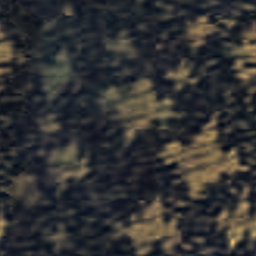
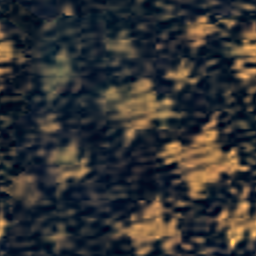
cabin777 econ w25 candidate (from w24 A 8.0 / B 7.8, matched cameras): pan list reordered (hero row tick / tick / diamond / mosaic as y_47300) + darker diamond pan, tick pans less blue; headrest cover 2 cm shorter and 0.245 wide (h/w 0.93 vs 0.70-0.77); pillow flatter, lower, resting on the pan; buc
Claude-Session: https://claude.ai/code/session_01HMqQTEKxbzwLX6D6sLZLPN

diff --git a/cabin777/src/09a_econ.js b/cabin777/src/09a_econ.js
@@ -8,7 +8,9 @@ const ECON = { back: 13 * DEG, hinge: [0.47, -0.075], sp: 19 * IN };
 // ANA mixes four fabric patterns seat by seat (y_47302: mosaic / diamond / ticks left to right; y_47306: diamond / ticks /
 // mosaic; y_47300 front row: tick / fleck / tick / fleck). econ w5 (A high): the petal fleck is the commonest (sans 13 / 14,
 // fr57325 124108) -> ~40 % fleck, 20 % each of the others [D]
-const econPan = (k, n, rot) => [SEATMAT.yFabric, SEATMAT.yFabricD, SEATMAT.yFabricC, SEATMAT.yFabric, SEATMAT.yFabricB][(k * 3 + n * 5 + (rot || 0) + 2) % 5];
+// w25 (w24a-1 / w24b-3, matched q15): hero row pans read mosaic / diamond / fleck / tick vs y_47300 tick / tick / diamond /
+// mosaic -> list reordered (same mix) [V]
+const econPan = (k, n, rot) => [SEATMAT.yFabricD, SEATMAT.yFabricB, SEATMAT.yFabric, SEATMAT.yFabricC, SEATMAT.yFabric][(k * 3 + n * 5 + (rot || 0) + 2) % 5];
 // w11 A: tick on ~half the backs (y_47300 tick / fleck / tick / fleck, y_47301 mostly tick) -> 6-cycle, tick x3 [D]
 // w17 A: the q15 hero row now reads tick / fleck / tick / fleck as in y_47300; fleck on a third of the backs (the commonest
 // in service, question 9), tick a third, mosaic and diamond a sixth each [D]
@@ -43,7 +45,9 @@ function econCrownLoft(secs, segC, crownAt) {
   for (let i = 0; i < n; i++) g.i.push(c0, c0 + 1 + ((i + 1) % n), c0 + 1 + i);
   return fixWinding(g);
 }
-const ECON_PAN = { ...SEATMAT.yFabric, c: photoBase('#44507c', 'y_tick') };
+const ECON_PAN = { ...SEATMAT.yFabric, c: photoBase('#4a5378', 'y_tick') };   // w25 (w24b-4): tick pans B/R 2.17 vs ~1.8 -> less blue
+// w25 (w24a-1 / w24b-3): the diamond pan read as a bold field of light stars head-on (L99-101 vs 74 in y_47300) -> darker
+const ECON_PAN_B = { ...SEATMAT.yFabricB, c: photoBase('#4a5482', 'y_diamond') };
 function econSeat(B, x0, lod, opts = {}) {
   const [hy, hz] = ECON.hinge;
   const F = opts.fab || SEATMAT.yFabric;
@@ -51,7 +55,7 @@ function econSeat(B, x0, lod, opts = {}) {
   // pan: the diamond seats carry the diamonds on the back only, the pan is the tick weave (y_47302 middle seat) [V]
   // w7 A + B: pans mix independently of the backs (y_47300: fleck back / tick pan, tick / diamond, fleck / mosaic) [V]
   let PF = opts.panFab || (F === SEATMAT.yFabricB ? SEATMAT.yFabric : F);
-  if (PF === SEATMAT.yFabric) PF = ECON_PAN;   // w10-w12 A: tick pans pale / grey (B/R 1.52-1.55 vs 1.74-1.90 in y_47300 / 47303)
+  if (PF === SEATMAT.yFabric) PF = ECON_PAN; else if (PF === SEATMAT.yFabricB) PF = ECON_PAN_B;   // w10-w12 A: tick pans pale / grey (B/R 1.52-1.55 vs 1.74-1.90 in y_47300 / 47303)
   // w14 gap: a deep ~5 cm fabric bullnose that tucks under to a narrower base (y_47302), set in a grey tray 5 cm behind
   // the pan front (the wide white tray showed as a 1.5-2 cm light lip under every pan) [D]
   const ps = cushionSecs(0.43, 0.47, 0.095, -0.05, { edge: 0.05, r: 0.05, crown: 0.01 });
@@ -111,17 +115,19 @@ function econSeat(B, x0, lod, opts = {}) {
   // w20 (gap19): bow cut 4 -> ~1.5 mm (the bulge mirrored the ceiling as a crinkle head-on); w20 B: ~2.5 mm (flat, it mirrored as one broad band)
   // w10 A + B: the flap hangs ~3 cm below the pad (y_47306 / sans 13: 24-29 % of the pad height), its foot tipped a
   // little forward, and rolls round the pad top in a soft radius (was a hard bevel)
-  loftAt(B, [SEC(0.575, 0.255, 0.005, -0.12, 0.002), SEC(0.61, 0.256, 0.005, -0.111, 0.002), SEC(0.655, 0.257, 0.005, -0.1025, 0.002), SEC(0.705, 0.258, 0.005, -0.103, 0.002), SEC(0.755, 0.257, 0.005, -0.1025, 0.002), SEC(0.791, 0.255, 0.005, -0.0985, 0.002)], BH, SEATMAT.yCover, lod ? 1 : 2);
-  loftAt(B, [SEC(0.789, 0.255, 0.006, -0.0985, 0.003), SEC(0.8, 0.255, 0.012, -0.094, 0.005), SEC(0.807, 0.255, 0.02, -0.086, 0.007), SEC(0.81, 0.255, 0.028, -0.073, 0.008), SEC(0.807, 0.255, 0.02, -0.06, 0.006)], BH, SEATMAT.yCover, lod ? 1 : 3);
+  loftAt(B, [SEC(0.595, 0.245, 0.005, -0.1149, 0.002), SEC(0.625, 0.246, 0.005, -0.1078, 0.002), SEC(0.665, 0.247, 0.005, -0.1022, 0.002), SEC(0.71, 0.248, 0.005, -0.103, 0.002), SEC(0.755, 0.247, 0.005, -0.1025, 0.002), SEC(0.791, 0.245, 0.005, -0.0985, 0.002)], BH, SEATMAT.yCover, lod ? 1 : 2);
+  // w25 (w24b-1, matched q15): head-on h / w 0.92-0.94 vs 0.70-0.77 in y_47300, hang ~4 cm vs 2-3 cm (b_ss_13) -> the plate
+  // starts 2 cm higher and is 0.245 wide; hem, foot, stitch and mark move up with it [D]
+  loftAt(B, [SEC(0.789, 0.245, 0.006, -0.0985, 0.003), SEC(0.8, 0.245, 0.012, -0.094, 0.005), SEC(0.807, 0.245, 0.02, -0.086, 0.007), SEC(0.81, 0.245, 0.028, -0.073, 0.008), SEC(0.807, 0.245, 0.02, -0.06, 0.006)], BH, SEATMAT.yCover, lod ? 1 : 3);
   if (lod) return;
   // small ANA mark in the flap's lower corner (viewer's right from the front, y_47306); w5 B: a thin grey logotype, not a sticker
   // w19 A: the hem, stitch and mark were quads 6-9 mm behind the plate (its foot tips forward since w10) and never showed;
   // now thin bands lofted over the plate, following its slope (plate centre z -0.12 at y 0.575 -> -0.111 at 0.61)
   const cz = (y) => -0.12 + (y - 0.575) / 0.035 * 0.009;
-  loftAt(B, [SEC(0.577, 0.253, 0.0064, cz(0.577), 0.002), SEC(0.596, 0.254, 0.0064, cz(0.596), 0.002)], BH, { c: '#2a3049', r: 0.6 }, 1);   // w22 A + B: a light band read as a screen chin head-on -> dark, the lift from the rolled foot only; w21 A + B: hem 1.15x the face vs 1.55-1.6 in y_47306 -> lighter, with a rolled foot; w20 A: dark (a light hem + stitch read as a screen chin head-on); w9 A: stitched hem band ~10 % of the cover height (y_47306)
-  B.add(gTube([[-0.122, 0, 0], [0.122, 0, 0]], 0.0045, 8), M4.mul(BH, M4.trs(0, 0.577, cz(0.577) + 0.001)), { c: '#4a5478', r: 0.38 });   // w22 B: inside the plate edge, 1 mm back (a <= 2 px lip head-on)   // rolled foot catching the light (y_47306)
-  loftAt(B, [SEC(0.5965, 0.24, 0.0072, cz(0.5965), 0.001), SEC(0.5977, 0.24, 0.0072, cz(0.5977), 0.001)], BH, { c: '#3e4562', r: 0.6 }, 1);   // stitch line, light thread (b_ss_14)
-  loftAt(B, [SEC(0.5985, 0.01, 0.0068, cz(0.5985), 0.0005, -0.105), SEC(0.6025, 0.01, 0.0068, cz(0.6025), 0.0005, -0.105)], BH, { c: '#3a4058', r: 0.5 }, 1);   // small ANA mark, viewer's right (y_47306)
+  loftAt(B, [SEC(0.597, 0.243, 0.0064, cz(0.597), 0.002), SEC(0.616, 0.244, 0.0064, cz(0.616), 0.002)], BH, { c: '#2a3049', r: 0.6 }, 1);   // w22 A + B: a light band read as a screen chin head-on -> dark, the lift from the rolled foot only; w21 A + B: hem 1.15x the face vs 1.55-1.6 in y_47306 -> lighter, with a rolled foot; w20 A: dark (a light hem + stitch read as a screen chin head-on); w9 A: stitched hem band ~10 % of the cover height (y_47306)
+  B.add(gTube([[-0.117, 0, 0], [0.117, 0, 0]], 0.0045, 8), M4.mul(BH, M4.trs(0, 0.597, cz(0.597) + 0.001)), { c: '#4a5478', r: 0.38 });   // w22 B: inside the plate edge, 1 mm back (a <= 2 px lip head-on)   // rolled foot catching the light (y_47306)
+  loftAt(B, [SEC(0.6165, 0.23, 0.0072, cz(0.6165), 0.001), SEC(0.6177, 0.23, 0.0072, cz(0.6177), 0.001)], BH, { c: '#3e4562', r: 0.6 }, 1);   // stitch line, light thread (b_ss_14)
+  loftAt(B, [SEC(0.6185, 0.01, 0.0068, cz(0.6185), 0.0005, -0.1), SEC(0.6225, 0.01, 0.0068, cz(0.6225), 0.0005, -0.1)], BH, { c: '#3a4058', r: 0.5 }, 1);   // small ANA mark, viewer's right (y_47306)
   // w11 B: contact darkening where the back fabric tucks into the shell sides (y_47306 dark crease) and along the strip
   for (const sx of [-1, 1]) loftAt(B, [SEC(0.05, 0.014, 0.003, -0.048, 0.001, sx * 0.199), SEC(0.55, 0.014, 0.003, -0.043, 0.001, sx * 0.203), SEC(0.80, 0.014, 0.003, -0.032, 0.001, sx * 0.2)], BH, { c: '#283052', r: 0.95 }, 1);   // w12 A + B: soft crease, not a drawn line
   // w9 A: a ~0.12 m centre strip in a contrasting weave runs from the pad top to the back top (headrest track cover,
@@ -138,19 +144,21 @@ function econSeat(B, x0, lod, opts = {}) {
       const X = sx * (1 + 0.35 * sz * sz) * (0.92 + 0.08 * l), Z = sz * (1 + 0.35 * sx * sx) * (0.92 + 0.08 * l);   // w10 gap: smooth squircle (|t|^0.45 creased the middle)
       // w6: wider (0.39 = 0.8 of the pan, y_47300 0.81 / sans 14 0.83), bow-tie outline with pinched corners
       const pull = 1 + 0.15 * Math.abs(X * Z);                                  // w9 A: corners pulled out (y_47300)
-      g.p[k] = 0.165 * X * (1 - 0.06 * (1 - Z * Z)) * pull; g.p[k + 2] = 0.135 * Z * (1 - 0.1 * (1 - X * X) - (Z > 0 ? 0.04 * (1 - X * X) : 0)) * pull;   // w14 gap: concave top edge   // w10 B: waist eased (read as a bone)
+      g.p[k] = 0.165 * X * (1 - 0.06 * (1 - Z * Z)) * pull; g.p[k + 2] = 0.11 * Z * (1 - 0.1 * (1 - X * X) - (Z > 0 ? 0.04 * (1 - X * X) : 0)) * pull;   // w14 gap: concave top edge   // w10 B: waist eased (read as a bone)
       g.p[k + 1] = sy * (0.006 + 0.046 * Math.pow(Math.max(0, 1 - Math.pow(l, 3)), 0.6));   // thins to the seamed rim; w14 gap: ~10 cm full (p90/p10 1.3 vs 2.2-2.8 in y_47300 read as a board)
     }
     computeNormals(g);
     // w20 (gap19): 0.33 x 0.27 (0.77 of the back, y_47300 matched view; 0.93 read as one dark strip), 4 cm higher and 4 deg
     // more upright so its foot just meets the pan instead of sinking into the crease [D]
-    B.add(g, M4.mul(BH, M4.trs(0, 0.19, -0.115, 0, -80 * DEG)), SEATMAT.yPillow);
+    // w25 (w24b-2 / w24a-5, matched q15): height 0.64 of the back width vs 0.46, ~4 cm too high -> half-height 0.11, 3.5 cm
+    // lower and tipped back 6 deg so it rests on the pan (y_47300) [D]
+    B.add(g, M4.mul(BH, M4.trs(0, 0.155, -0.112, 0, -74 * DEG)), SEATMAT.yPillow);
     // w19 A + B: a ~4 mm piped seam round the rim (y_47300 pillows), the same outline law at l = 1 [D]
     const rim = []; for (let i = 0; i <= 48; i++) {
       const t = i / 48 * 2 * Math.PI, sx = Math.cos(t), sz = Math.sin(t), X = sx * (1 + 0.35 * sz * sz), Z = sz * (1 + 0.35 * sx * sx), pull = 1 + 0.15 * Math.abs(X * Z);
-      rim.push([0.165 * X * (1 - 0.06 * (1 - Z * Z)) * pull, 0, 0.135 * Z * (1 - 0.1 * (1 - X * X) - (Z > 0 ? 0.04 * (1 - X * X) : 0)) * pull]);
+      rim.push([0.165 * X * (1 - 0.06 * (1 - Z * Z)) * pull, 0, 0.11 * Z * (1 - 0.1 * (1 - X * X) - (Z > 0 ? 0.04 * (1 - X * X) : 0)) * pull]);
     }
-    B.add(gTube(rim, 0.0035, 6, false), M4.mul(BH, M4.trs(0, 0.19, -0.115, 0, -80 * DEG)), { ...SEATMAT.yPillow, c: '#343e5c' });   // w20 A + B: pillow-coloured piping (a darker ring read as an outline)
+    B.add(gTube(rim, 0.0035, 6, false), M4.mul(BH, M4.trs(0, 0.155, -0.112, 0, -74 * DEG)), { ...SEATMAT.yPillow, c: '#343e5c' });   // w20 A + B: pillow-coloured piping (a darker ring read as an outline)
   }
   // life-vest pouch: dark saucer-shaped holder under the pan front with a red pull strap hanging from its rim (y_47302:
   // ~0.15-0.18 m discs under each seat) [D]
@@ -251,7 +259,7 @@ function econSeat(B, x0, lod, opts = {}) {
   // belt: silver tongue one side, light-grey plastic buckle cover the other (y_47303); w5 A: the webbing drapes across the
   // pan from the side creases and the latch sits at mid-pan (y_47302 / 47301 / 47303) [V]
   for (const s of [-1, 1]) {
-    B.add(s < 0 ? gRBox(0.05, 0.012, 0.035, 0.005, 1) : gRBox(0.05, 0.014, 0.04, 0.006, 1), M4.trs(x0 + 0.03 * s, 0.478, -0.31), s < 0 ? SEATMAT.buckle : { c: '#cfd2d6', r: 0.4 });
+    B.add(s < 0 ? gRBox(0.05, 0.012, 0.035, 0.005, 1) : gRBox(0.05, 0.014, 0.04, 0.006, 1), M4.trs(x0 + 0.03 * s, 0.478, -0.31), s < 0 ? SEATMAT.buckle : { c: '#9da2a9', r: 0.4 });   // w25 (w24b-5): the light covers dominated the pans head-on
     B.add(gBox(0.045, 0.004, 0.25), M4.trs(x0 + 0.115 * s, 0.474, -0.195, s * 38 * DEG), s < 0 ? SEATMAT.yBelt : { ...SEATMAT.yBelt, c: '#262c48' });   // w10 B: teal tongue strap, navy buckle strap (y_47303)
   }
   // pan-front stiffener in the light-grey structure colour (y_47300 / 47302: fabric pan fronts over light-grey structure,
@@ -343,13 +351,13 @@ function econUnitFar(n, rot = 0) {
   for (let k = 0; k < n; k++) {
     const x0 = (k - (n - 1) / 2) * sp;
     const f = econFab(k, n, rot);
-    B.add(gRBox(0.43, 0.10, 0.47, 0.05, 1), M4.trs(x0, 0.41, -0.28, 0, 3 * DEG), econPan(k, n, rot) === SEATMAT.yFabric ? ECON_PAN : econPan(k, n, rot));
+    B.add(gRBox(0.43, 0.10, 0.47, 0.05, 1), M4.trs(x0, 0.41, -0.28, 0, 3 * DEG), econPan(k, n, rot) === SEATMAT.yFabric ? ECON_PAN : econPan(k, n, rot) === SEATMAT.yFabricB ? ECON_PAN_B : econPan(k, n, rot));
     const BH = M4.trs(x0, ECON.hinge[0], ECON.hinge[1], 0, ECON.back);
     B.add(gRBox(0.42, 0.86, 0.08, 0.035, 1), M4.mul(BH, M4.trs(0, 0.43, -0.005)), f);   // same mix as econUnit
     B.add(gRBox(0.446, 0.62, 0.045, 0.015, 1), M4.mul(BH, M4.trs(0, 0.25, 0.058)), SEATMAT.yShell);
     B.add(gRBox(0.40, 0.37, 0.12, 0.015, 1), M4.mul(BH, M4.trs(0, 0.665, 0.062)), SEATMAT.yShell);    // screen hood under the back top (w5; w6 0.40, tight corners; w14 gap: top 0.85, its white cap showed on every far back)
     B.add(gRBox(0.39, 0.2, 0.11, 0.04, 1), M4.mul(BH, M4.trs(0, 0.70, -0.058)), f === SEATMAT.yFabricB ? SEATMAT.yFabricC : f === SEATMAT.yFabricC ? SEATMAT.yFabricB : f === SEATMAT.yFabricD ? SEATMAT.yFabric : SEATMAT.yHead);
-    B.add(gBox(0.255, 0.235, 0.01), M4.mul(BH, M4.trs(0, 0.6825, -0.11)), SEATMAT.yCover);
+    B.add(gBox(0.245, 0.215, 0.01), M4.mul(BH, M4.trs(0, 0.6925, -0.108)), SEATMAT.yCover);
     B.add(gQuad(0.316, 0.205), M4.mul(BH, M4.trs(0, 0.7275, 0.1245)), SEATMAT.bezel);
     B.add(gQuad(0.294, 0.166), M4.mul(BH, M4.trs(0, 0.7275, 0.1265)), SEATMAT.screen, atlasUV('screen'));
   }

diff --git a/cabin777/src/09_seats.js b/cabin777/src/09_seats.js
@@ -34,9 +34,9 @@ const SEATMAT = {
   yTray: { c: '#cfd2d6', r: 0.4, l: LAYER.plastic },
   yBelt: { c: '#25466a', r: 0.9, l: LAYER.fabric },        // y_47303 #325495 / #456198 (w5 B: #3a64a6 rendered sky-cyan; w6 B: #2e4c86 rendered #588ed0 vs y_47303 #38578c; w7 A: G/B 0.47 vs 0.61 -> teal lean)
   yPillow: { c: '#3d4763', r: 0.9, l: LAYER.fabric },      // y_47300 (44,53,88); econ w2: #2e3860 rendered #151b3e vs photo #30395f; w6 B: #4d5579 q15 L50 59 vs 44
-  arm: { c: '#c4c8cd', r: 0.45, l: LAYER.plastic },       // econ QA w1: light grey, y_47303 #afb2bc / y_47302 #9fa6ab
-  armPad: { c: '#b6bac0', r: 0.5, l: LAYER.plastic },
-  armPost: { c: '#a9aeb4', r: 0.45, l: LAYER.plastic },    // econ w2: grey arm front bracket (y_47302 / 47303)
+  arm: { c: '#c9c7c3', r: 0.45, l: LAYER.plastic },       // econ w25 (w24b-6): warm light grey (y_47300 B/R 0.95-0.975 vs 1.06); econ QA w1: light grey, y_47303 #afb2bc / y_47302 #9fa6ab
+  armPad: { c: '#bbbab6', r: 0.5, l: LAYER.plastic },
+  armPost: { c: '#adaca8', r: 0.45, l: LAYER.plastic },    // econ w2: grey arm front bracket (y_47302 / 47303)
   frame: { c: '#a3a8ae', r: 0.32, m: 0.85, l: LAYER.brushed },
   black: { c: '#15181c', r: 0.45 },
   port: { c: '#0b0c0e', r: 0.4 },

diff --git a/cabin777/test/make_swatches.py b/cabin777/test/make_swatches.py
@@ -323,6 +323,37 @@ def _wrap_cut(a, o):
     return cut_x(a.transpose(1, 0, 2)).transpose(1, 0, 2)
 
 
+def _thin_flecks(e, ep, keep, seed, th=0.2, trim=0.04):
+    """drop a random (fixed-seed) share of the fleck components of the excess map e (pixels over th * ep, labelled with
+    wrap-around 8-connectivity); a fleck closer to a kept one than 1.2x their summed sizes is dropped first, so
+    merged clusters thin out. Dropped components fade over a 1 px rim; kept cores lose their soft skirt (trim * ep)"""
+    n = e.shape[0]; lum = e.mean(2); mask = lum > th * ep
+    lab = -np.ones(lum.shape, int); comps = []
+    for y0, x0 in zip(*np.nonzero(mask)):
+        if lab[y0, x0] >= 0: continue
+        k = len(comps); lab[y0, x0] = k; st = [(y0, x0)]; pts = []
+        while st:
+            y, x = st.pop(); pts.append((y, x))
+            for dy in (-1, 0, 1):
+                for dx in (-1, 0, 1):
+                    yy, xx = (y + dy) % n, (x + dx) % n
+                    if mask[yy, xx] and lab[yy, xx] < 0: lab[yy, xx] = k; st.append((yy, xx))
+        comps.append(np.array(pts))
+    rng = np.random.default_rng(seed); order = rng.permutation(len(comps))
+    cen = [np.array([np.angle(np.exp(2j * np.pi * c[:, i] / n).mean()) * n / (2 * np.pi) % n for i in (0, 1)]) for c in comps]
+    size = [max(2.0, np.sqrt(len(c))) for c in comps]
+    kept, drop = [], np.zeros(len(comps), bool)
+    for k in order:
+        near = any(np.hypot(*((cen[k] - cen[j] + n / 2) % n - n / 2)) < 1.2 * (size[k] + size[j]) for j in kept)
+        if near or len(kept) >= keep * len(comps): drop[k] = True
+        else: kept.append(k)
+    dm = np.isin(lab, np.nonzero(drop)[0]).astype(np.float32)
+    dm = np.maximum(dm, _blur_wrap(dm, 0.7) * 1.5).clip(0, 1)          # 1 px soft rim round the dropped flecks
+    out = e * (1 - dm)[..., None]
+    print('flecks kept', len(kept), 'of', len(comps))
+    return np.maximum(out - trim * ep, 0) / (1 - trim), dm
+
+
 def y_photo(name):
     """cut a Y fabric tile straight from the photo: lighting removed by dividing by a blurred luminance computed on a
     padded crop (no edge bias, chroma of the pale yarns kept), resampled to 256 px, made periodic, lightly sharpened
@@ -353,12 +384,23 @@ def y_photo(name):
         # photo's own column profile (mean down each column) 1.6x so the dark channels survive the mip chain [D]
         c = r.mean(2).mean(0, keepdims=True); c = c / c.mean()
         r = r * (c ** 0.15)[..., None]   # w20 (gap19): straight columns carry their own profile; 0.6 over-sharpened close up
-        m = np.median(r.mean(2)); r = np.where(r.mean(2, keepdims=True) > m, m + 0.8 * (r - m), r)   # w21 / w22 B: strokes toward the ground (q15 bright 0.14 vs 0.083 after the -0.5 mip bias)
+        m = np.median(r.mean(2)); r = np.where(r.mean(2, keepdims=True) > m, m + 0.65 * (r - m), r)   # w25 (w23a-2 / w23b-1): 0.8 -> 0.65 (q15 bright 0.12 vs 0.083; ~0.02 per 0.1)   # w21 / w22 B: strokes toward the ground (q15 bright 0.14 vs 0.083 after the -0.5 mip bias)
+    if name == 'y_diamond':
+        # econ w25 (w23b-2): the lattice washed out on the bluer #5f6ba0 ground (e4 bright 0.03 vs 0.11 in y_47306) -> 1.25x [D]
+        m = np.median(r.mean(2)); r = np.maximum(m + 1.25 * (r - m), 0.03)
     if name == 'y_fleck':
         # the 3.4 mm/px source smears each 3-5 mm fleck over ~3 px: keep only the core of the excess over the ground
         # (bright area 27 % -> ~12 %, y_47306 pad 11 %) and tint it pale blue (#9fb0e0 vs white, w15 A) [D]
         g = np.median(r.mean(2)); e = np.maximum(r - g, 0); ep = e.max()
-        r = np.minimum(r, g) + ep * (e / ep) ** 1.2 * np.array([1.02, 1.0, 0.92], np.float32)   # w20 A + B: fewer, less blue cores (B/R 3.0 vs 2.54); w22 B: exp 1.2 (bright 0.18 vs 0.153 after the mip bias)   # w20 (gap19): 1.25 thinned the flecks away at row distance
+        # econ w25 (w23a-1): the tile carried ~2x the photo's flecks close up (e4 pad coverage 0.29 vs 0.13 in y_47306,
+        # merged clusters) and the exponent only dimmed them: drop ~30 % of the fleck components (fixed seed, a kept fleck
+        # clears the flecks touching it, so merged clusters break up) and trim the soft skirts, exponent 1.0, flecks 1.1x [D]
+        e, dm = _thin_flecks(e, ep, keep=0.7, seed=24)
+        # a dropped fleck and its dark sharpening halo become the surrounding ground (a flat g read brown) [D]
+        base = np.minimum(r, g); dd = np.clip(_blur_wrap(dm, 1.5) * 2.0, 0, 1)
+        out = (1 - np.clip(dd * 3, 0, 1)).astype(np.float32)        # the local ground around each dropped fleck fills it
+        gl = np.stack([_blur_wrap(base[..., c] * out, 3.0) for c in range(3)], 2) / np.maximum(_blur_wrap(out, 3.0), 1e-3)[..., None]
+        r = base * (1 - dd[..., None]) + gl * dd[..., None] + 1.1 * ep * (e / ep) ** 1.0 * np.array([1.02, 1.0, 0.92], np.float32)   # w25 (w24a-2): distance flecks weak (p90/p10 2.48 vs 3.05)   # w20 A + B: fewer, less blue cores (B/R 3.0 vs 2.54); w22 B: exp 1.2 (bright 0.18 vs 0.153 after the mip bias)   # w20 (gap19): 1.25 thinned the flecks away at row distance
     # w20 (gap19): the 0.5-2.5 cm band (columns, flecks, dashes) is what survives at row distance; boost it in log luminance and
     # damp the < 1.2 mm JPEG grain (tile CV at 150 px/m: tick 0.31 vs 0.46-0.49 in y_47300, fleck 0.31 vs 0.84) [D]
     # w20 A + B: the full boost overshot (q15 tick bright 0.15 vs 0.083, fleck 0.20 vs 0.154) -> half on tick / fleck
